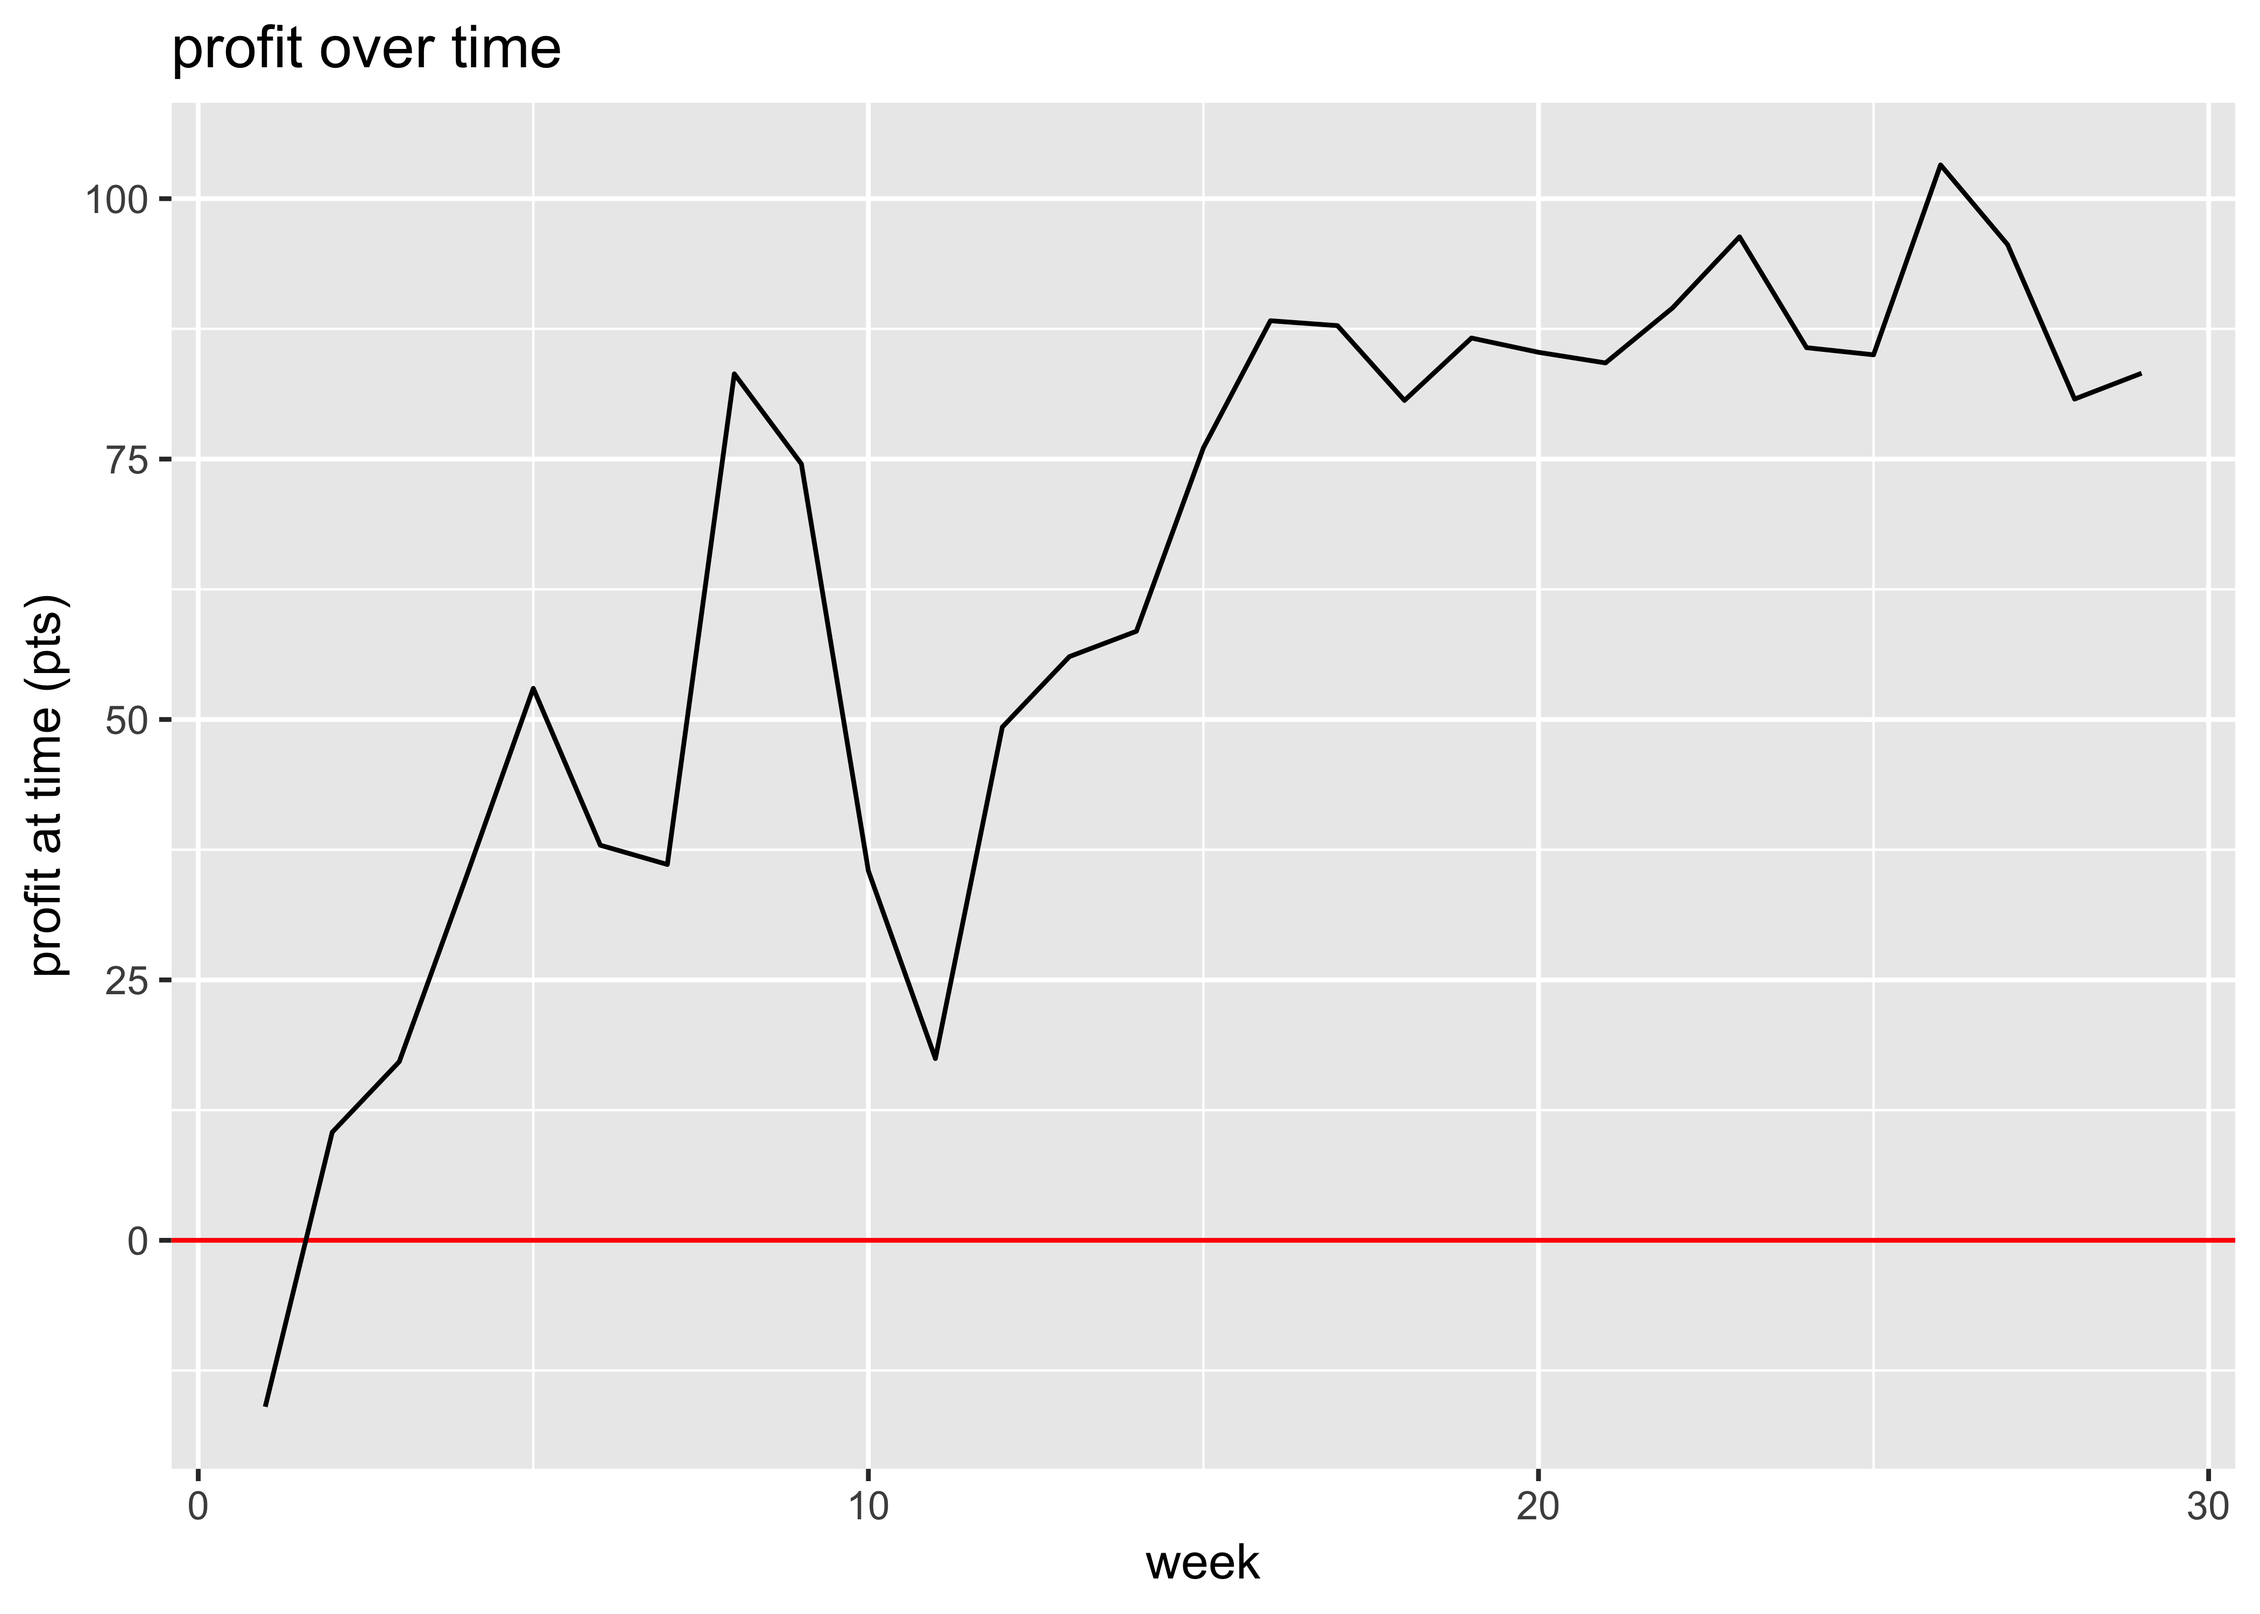
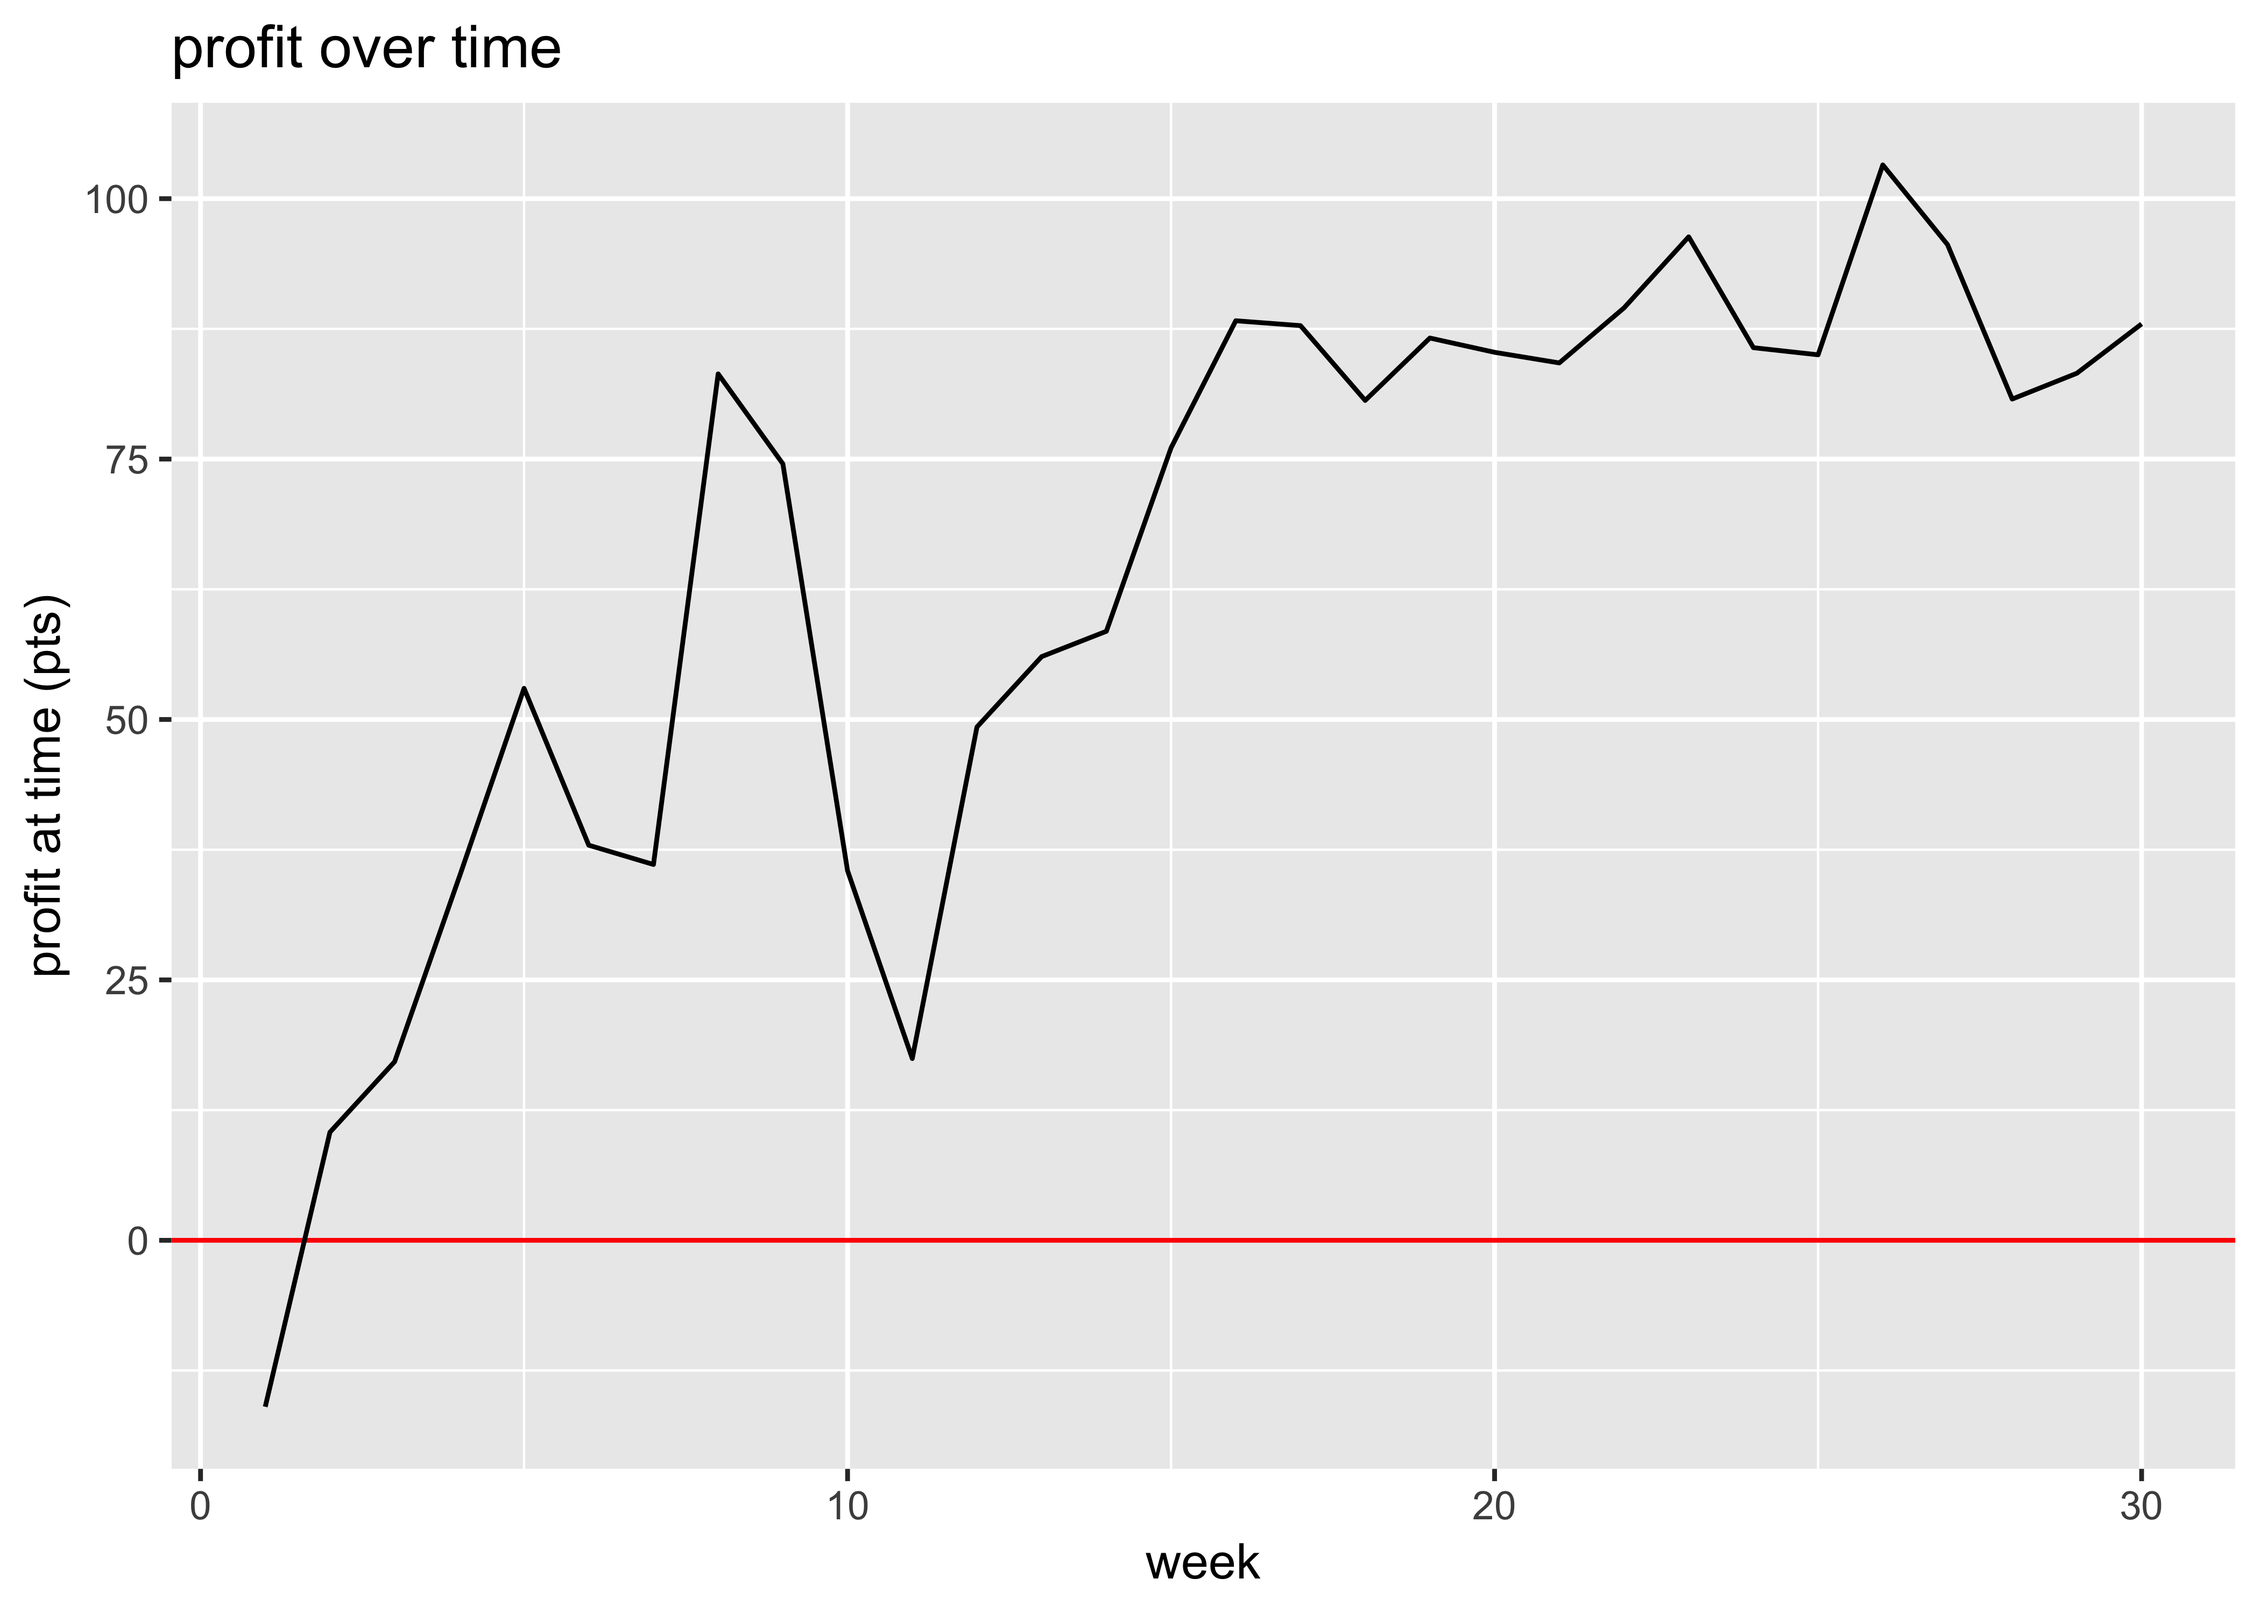
Allow for fact that when we post, we get better odds than if we'd just taken best available.

diff --git a/report.md b/report.md
@@ -1,6 +1,6 @@
 report
 ================
-2018-11-13
+2018-11-15
 
 # Profit over time
 
@@ -10,22 +10,22 @@ report
 
 # ROI and ROC
 
-We put in €9000 and we’ve made a profit of €3,659 on the bets. However,
-we’ve paid three subscriptions of £600 which amounts to €2,057 so our
-net profit is €1,602. That’s a return on capital of 17.8%. This gives us
-a current bank of €10602.
+We put in €9000 and we’ve made a profit of €3,825 on the bets. However,
+we’ve paid three subscriptions of £600 which amounts to €2,068 so our
+net profit is €1,757. That’s a return on capital of 19.52%. This gives
+us a current bank of €10757.
 
-We have wagered a total of €56,006 and made a betting profit of €3,659,
-which gives us a betting ROI of 6.53%.
+We have wagered a total of €56,666 and made a betting profit of €3,825,
+which gives us a betting ROI of 6.75%.
 
 # Have any bookies been riddled?
 
 | bookmaker    | Aidan | Rory | total |
 | :----------- | :---- | :--- | :---- |
-| Paddy Power  | \+48  | \-6  | \+42  |
+| Paddy Power  | \+48  | \-5  | \+43  |
 | Bet365       | 0     | \+36 | \+36  |
-| Betfred      | \+6   | \+21 | \+27  |
-| Unibet       | \+10  | \+13 | \+24  |
+| Betfred      | \+6   | \+27 | \+33  |
+| Unibet       | \+10  | \+13 | \+23  |
 | William Hill | \+22  | \-3  | \+19  |
 | Coral        | \+17  | 0    | \+17  |
 | Matchbook    | \+10  | \+1  | \+11  |
@@ -45,14 +45,14 @@ which gives us a betting ROI of 6.53%.
 | 10Bet        | 0     | \-6  | \-6   |
 | SportsPesa   | 0     | \-6  | \-6   |
 | BetStars     | \-2   | \-9  | \-10  |
-| Betfair SB   | \-10  | \-2  | \-11  |
+| Betfair SB   | \-12  | \-3  | \-15  |
 | Ladbrokes    | 0     | \-18 | \-18  |
 | Black Type   | 0     | \-19 | \-19  |
 
 # Minimum acceptable odds
 
-We’ve had winnings of 881 points and losses of 791 points, so even if
-our odds were only a fraction 791 / 881 = 0.9 of what we actually got,
+We’ve had winnings of 892 points and losses of 799 points, so even if
+our odds were only a fraction 799 / 892 = 0.9 of what we actually got,
 we’d still be breaking even.
 
 # Winners and losers
@@ -61,29 +61,32 @@ Here’s a count of the number of winners, losers, and places we’ve had.
 
 | result                  |   n | percent |
 | :---------------------- | --: | :------ |
-| Win only Lose           | 332 | 63%     |
-| Win only Win            |  98 | 19%     |
+| Win only Lose           | 340 | 64%     |
+| Win only Win            | 100 | 19%     |
 | Each way Lose           |  65 | 12%     |
 | Each way Place          |   9 | 2%      |
 | Each way Win            |   9 | 2%      |
-| Win only Unmatched Loss |   8 | 2%      |
+| Win only Unmatched Loss |   8 | 1%      |
 | Win only Unmatched Win  |   4 | 1%      |
 
 # Win only vs each way
 
-  - We’ve made 400 *win only* bets, on which we’ve made a profit of
-    €5,410.
+  - We’ve made 405 *win only* bets, on which we’ve made a profit of
+    €5,578.
   - We’ve made 75 *each way* bets, on which we’ve made a profit of
-    €-1,751.
+    €-1,753.
 
 # Unmatched Bets
 
 We’ll consider only win only bets (and not each way bets) in this
 section.
 
-Of the bets that have been matched, there have been 80 winners and 284
+Of the bets that have been matched, there have been 81 winners and 288
 losers. That means that 22% of matched bets have been winners. Of the
 bets that have not been matched, there have been 4 winners and 8 losers.
 That means that 33% of unmatched bets have been winners. Unmatched bets
-have saved us 11 points on losers but cost us 52 on winners, so overall
-unmatched bets have cost us 41 points.
+have saved us 11 points on losers but cost us 42 on winners, whereas
+getting better odds on posted bets which were matched has made us 4
+points (where I have assumed that when we post, we get 20% better odds
+than if we’d just taken best available at the time). So overall,
+unmatched bets have cost us 27 points.
